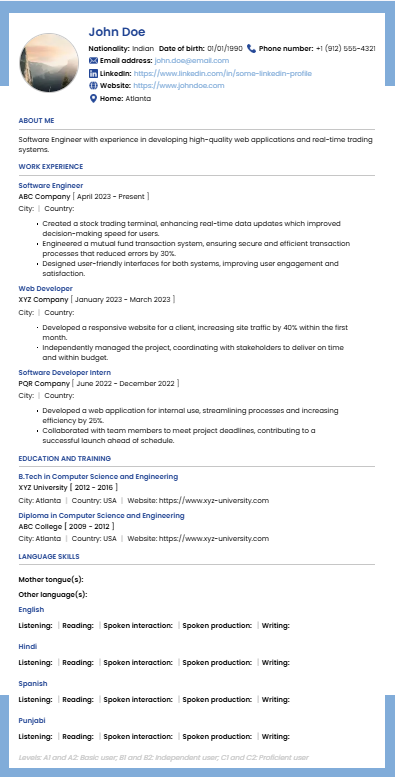
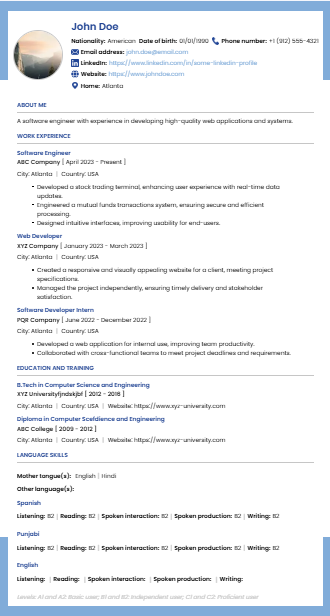
Develop (#164)
* add prompt input to JdModal for enhanced resume modification

* refactor resume modification logic in SyncJobDescriptionModal and JdModal for improved error handling and state management

* update blog URL in Footer component to point to the correct path

* add isString helper function and improve resume string handling in TemplateZoneContainer

* fix: update image file extension for ImportFromLinkedIn component

* feat: add UsersList component and integrate getAllUsers API

* feat: integrate Microsoft Clarity tracking script in _app.js

* feat: enhance AdminPanel with dynamic page titles and URL management

* feat: update UsersList component to display current page and total pages, improve responsiveness

* feat: modify getAllUsers function to accept pageNumber parameter and update UsersList to fetch users based on current page

* feat: add demo video asset to public directory

* feat: enhance user pagination by adding next and previous buttons to UsersList component

* removed demo big fle

* removed demo gif

* Refactor resume handling and improve session storage management

* Add template description to template data and display in TemplateSwitcher

* Add EuroPass1 template and integrate into TemplateZone

* Add additional personal and educational details to temp resume data

* Refactor EuroPass1 template assets and update contact information display

* Refactor EuroPass1 template to use ImageWrapper component and enhance styling
[…]

Changed region(s): [[0.0, 0.0, 1.0, 1.0]]

diff --git a/components/Builder/components/TemplateZone/TemplatesList/EuroPass2/EuroPass2.js b/components/Builder/components/TemplateZone/TemplatesList/EuroPass2/EuroPass2.js
@@ -2,6 +2,7 @@ import React, { useContext } from 'react';
 import styled from 'styled-components';
 import Image from 'next/image';
 import { ResumeContext } from '@/context/ResumeContext';
+import { checkOtherLanguagesExist } from '@/helpers';
 
 const TemplateEuroPass2 = () => {
   let { resumeData } = useContext(ResumeContext);
@@ -136,42 +137,45 @@ const TemplateEuroPass2 = () => {
             )
           ))}
         </LanguageLevels>
-        <p style={{ fontSize: '14px', margin: '0 0 10px 0' }}>Other language(s): </p>
-        <Table>
-          <tr>
-            <th></th>
-            <th>Understanding</th>
-            <th></th>
-            <th>Speaking</th>
-            <th></th>
-            <th>Writing</th>
-          </tr>
-          <tr>
-            <td></td>
-            <td>Listening</td>
-            <td>Reading</td>
-            <td>Spoken production</td>
-            <td>Spoken interaction</td>
-            <td></td>
-          </tr>
-          {resumeData?.languages?.map((language, idx) => (
-            !language.motherTongue && (
+        {checkOtherLanguagesExist(resumeData?.languages) &&
+          <>
+            <p style={{ fontSize: '14px', margin: '0 0 10px 0' }}>Other language(s): </p>
+            <Table>
               <tr>
-                <td>
-                  <ItemTitle style={{
-                    textTransform: 'uppercase',
-                  }}>{language?.language}</ItemTitle>
-                </td>
-                <td>{language?.level}</td>
-                <td>{language?.level}</td>
-                <td>{language?.level}</td>
-                <td>{language?.level}</td>
-                <td>{language?.level}</td>
+                <th></th>
+                <th>Understanding</th>
+                <th></th>
+                <th>Speaking</th>
+                <th></th>
+                <th>Writing</th>
               </tr>
-            )
-          ))}
-        </Table>
-        <LanguageLevelsDetail>Levels: A1 and A2: Basic user; B1 and B2: Independent user; C1 and C2: Proficient user</LanguageLevelsDetail>
+              <tr>
+                <td></td>
+                <td>Listening</td>
+                <td>Reading</td>
+                <td>Spoken production</td>
+                <td>Spoken interaction</td>
+                <td></td>
+              </tr>
+              {resumeData?.languages?.map((language, idx) => (
+                !language.motherTongue && (
+                  <tr>
+                    <td>
+                      <ItemTitle style={{
+                        textTransform: 'uppercase',
+                      }}>{language?.language}</ItemTitle>
+                    </td>
+                    <td>{language?.level}</td>
+                    <td>{language?.level}</td>
+                    <td>{language?.level}</td>
+                    <td>{language?.level}</td>
+                    <td>{language?.level}</td>
+                  </tr>
+                )
+              ))}
+            </Table>
+            <LanguageLevelsDetail>Levels: A1 and A2: Basic user; B1 and B2: Independent user; C1 and C2: Proficient user</LanguageLevelsDetail>
+          </>}
       </SectionContent>
     </Wrapper >
   );

diff --git a/components/Builder/components/TemplateZone/TemplatesList/EuroPass1/EuroPass1.js b/components/Builder/components/TemplateZone/TemplatesList/EuroPass1/EuroPass1.js
@@ -4,6 +4,7 @@ import Image from 'next/image';
 import { ResumeContext } from '@/context/ResumeContext';
 import { linkedinImage, pinImage, webImage, mailImage, phoneImage } from './assets';
 import ImageWrapper from './Image';
+import { checkOtherLanguagesExist } from '@/helpers';
 
 const TemplateEuroPass1 = () => {
   let { resumeData } = useContext(ResumeContext);
@@ -119,18 +120,21 @@ const TemplateEuroPass1 = () => {
             )
           ))}
         </LanguageLevels>
-        <ItemTitle style={{ fontSize: '14px', margin: '0 0 10px 0' }}>Other language(s): </ItemTitle>
-        {resumeData?.languages?.map((language, idx) => (
-          !language.motherTongue && (
-            <Item key={idx}>
-              <p style={{ color: '#214493', fontSize: '14px', fontWeight: '600' }}>{language?.language}</p>
-              <LanguageLevels>
-                <BoldLabel>Listening: </BoldLabel> <p>{language?.level}</p> <Separator>|</Separator> <BoldLabel>Reading:</BoldLabel> <p>{language?.level}</p> <Separator>|</Separator> <BoldLabel>Spoken interaction:</BoldLabel> <p>{language?.level}</p> <Separator>|</Separator> <BoldLabel>Spoken production: </BoldLabel><p>{language?.level}</p> <Separator>|</Separator> <BoldLabel> Writing:</BoldLabel><p>{language?.level}</p>
-              </LanguageLevels>
-            </Item>
-          )
-        ))}
-        <LanguageLevelsDetail>Levels: A1 and A2: Basic user; B1 and B2: Independent user; C1 and C2: Proficient user</LanguageLevelsDetail>
+        {checkOtherLanguagesExist(resumeData.languages) &&
+          <>
+            <ItemTitle style={{ fontSize: '14px', margin: '0 0 10px 0' }}>Other language(s): </ItemTitle>
+            {resumeData?.languages?.map((language, idx) => (
+              !language.motherTongue && (
+                <Item key={idx}>
+                  <p style={{ color: '#214493', fontSize: '14px', fontWeight: '600' }}>{language?.language}</p>
+                  <LanguageLevels>
+                    <BoldLabel>Listening: </BoldLabel> <p>{language?.level}</p> <Separator>|</Separator> <BoldLabel>Reading:</BoldLabel> <p>{language?.level}</p> <Separator>|</Separator> <BoldLabel>Spoken interaction:</BoldLabel> <p>{language?.level}</p> <Separator>|</Separator> <BoldLabel>Spoken production: </BoldLabel><p>{language?.level}</p> <Separator>|</Separator> <BoldLabel> Writing:</BoldLabel><p>{language?.level}</p>
+                  </LanguageLevels>
+                </Item>
+              )
+            ))}
+            <LanguageLevelsDetail>Levels: A1 and A2: Basic user; B1 and B2: Independent user; C1 and C2: Proficient user</LanguageLevelsDetail>
+          </>}
       </SectionContent>
       <RightLowerBorder />
       <LeftLowerBorder />

diff --git a/components/Builder/components/TemplateContent/components/Languages/Languages.js b/components/Builder/components/TemplateContent/components/Languages/Languages.js
@@ -57,6 +57,20 @@ const Languages = ({
                     placeholder="Fluency"
                     onChange={(e) => handleInputChange(idx, 'fluency', e.target.value)}
                   />
+                  <input
+                    value={templateItem?.level}
+                    placeholder="Level"
+                    onChange={(e) => handleInputChange(idx, 'level', e.target.value)}
+                  />
+                  <MotherTongueToggle>
+                    <input
+                      type="checkbox"
+                      id={`motherTongue-${idx}`}
+                      checked={templateItem?.motherTongue}
+                      onChange={(e) => handleInputChange(idx, 'motherTongue', e.target.checked)}
+                    />
+                    <label htmlFor={`motherTongue-${idx}`} />
+                  </MotherTongueToggle>
                 </InputGroup>
               </ItemWrapper>
             </ItemSection>
@@ -85,6 +99,12 @@ const ItemWrapper = styled.div`
   .highlight-item {
     min-height: 50px;
   }
+`;
+
+const MotherTongueToggle = styled.div`
+  position: relative;
+  display: inline-block;
+  margin-left: 10px;
 `;
 
 export default Languages;

diff --git a/components/Builder/components/TemplateContent/components/Experience/Experience.js b/components/Builder/components/TemplateContent/components/Experience/Experience.js
@@ -103,6 +103,26 @@ const Experience = ({
                   </InputGroup>
                 </ItemWrapper>
               </div>
+              <div className="d-grid grid-2 col-gap-2">
+                <ItemWrapper>
+                  <InputGroup>
+                    <input
+                      value={templateItem?.city}
+                      placeholder="City"
+                      onChange={(e) => handleInputChange(idx, 'city', e.target.value)}
+                    />
+                  </InputGroup>
+                </ItemWrapper>
+                <ItemWrapper>
+                  <InputGroup>
+                    <input
+                      value={templateItem?.country}
+                      placeholder="Country"
+                      onChange={(e) => handleInputChange(idx, 'country', e.target.value)}
+                    />
+                  </InputGroup>
+                </ItemWrapper>
+              </div>
               {
                 templateItem?.highlights && templateItem?.highlights?.map((highlight, hIdx) => (
                   <ItemWrapper key={hIdx}>

diff --git a/components/Builder/components/TemplateContent/components/Education/Education.js b/components/Builder/components/TemplateContent/components/Education/Education.js
@@ -58,6 +58,25 @@ const Education = ({
                     onChange={(e) => handleInputChange(idx, 'area', e.target.value)}
                   />
                 </InputGroup>
+                <InputGroup>
+                  <input
+                    value={templateItem?.website}
+                    placeholder="xyz-university.com"
+                    onChange={(e) => handleInputChange(idx, 'website', e.target.value)}
+                  />
+                </InputGroup>
+                <InputGroup>
+                  <input
+                    value={templateItem?.city}
+                    placeholder="City"
+                    onChange={(e) => handleInputChange(idx, 'city', e.target.value)}
+                  />
+                  <input
+                    value={templateItem?.country}
+                    placeholder="Country"
+                    onChange={(e) => handleInputChange(idx, 'country', e.target.value)}
+                  />
+                </InputGroup>
               </ItemWrapper>
 
               <div className="d-grid grid-2 col-gap-2">

diff --git a/helpers/index.js b/helpers/index.js
@@ -6,6 +6,7 @@ import { checkImageURLIsValid, isString } from './validator';
 import templateKeys from './templateKeys';
 import { removeDataFromSession } from './removeData';
 import getBlogSchema from './getBlogSchema';
+import checkOtherLanguagesExist from './checkOtherLanguagesExist';
 
 export {
   colors,
@@ -16,5 +17,6 @@ export {
   templateKeys,
   removeDataFromSession,
   getBlogSchema,
-  isString
+  isString,
+  checkOtherLanguagesExist
 };

diff --git a/helpers/checkOtherLanguagesExist.js b/helpers/checkOtherLanguagesExist.js
@@ -1,0 +1,5 @@
+const checkOtherLanguagesExist = (languages) => {
+    return languages && languages.some(e => !e.motherTongue);
+}
+
+export default checkOtherLanguagesExist;
